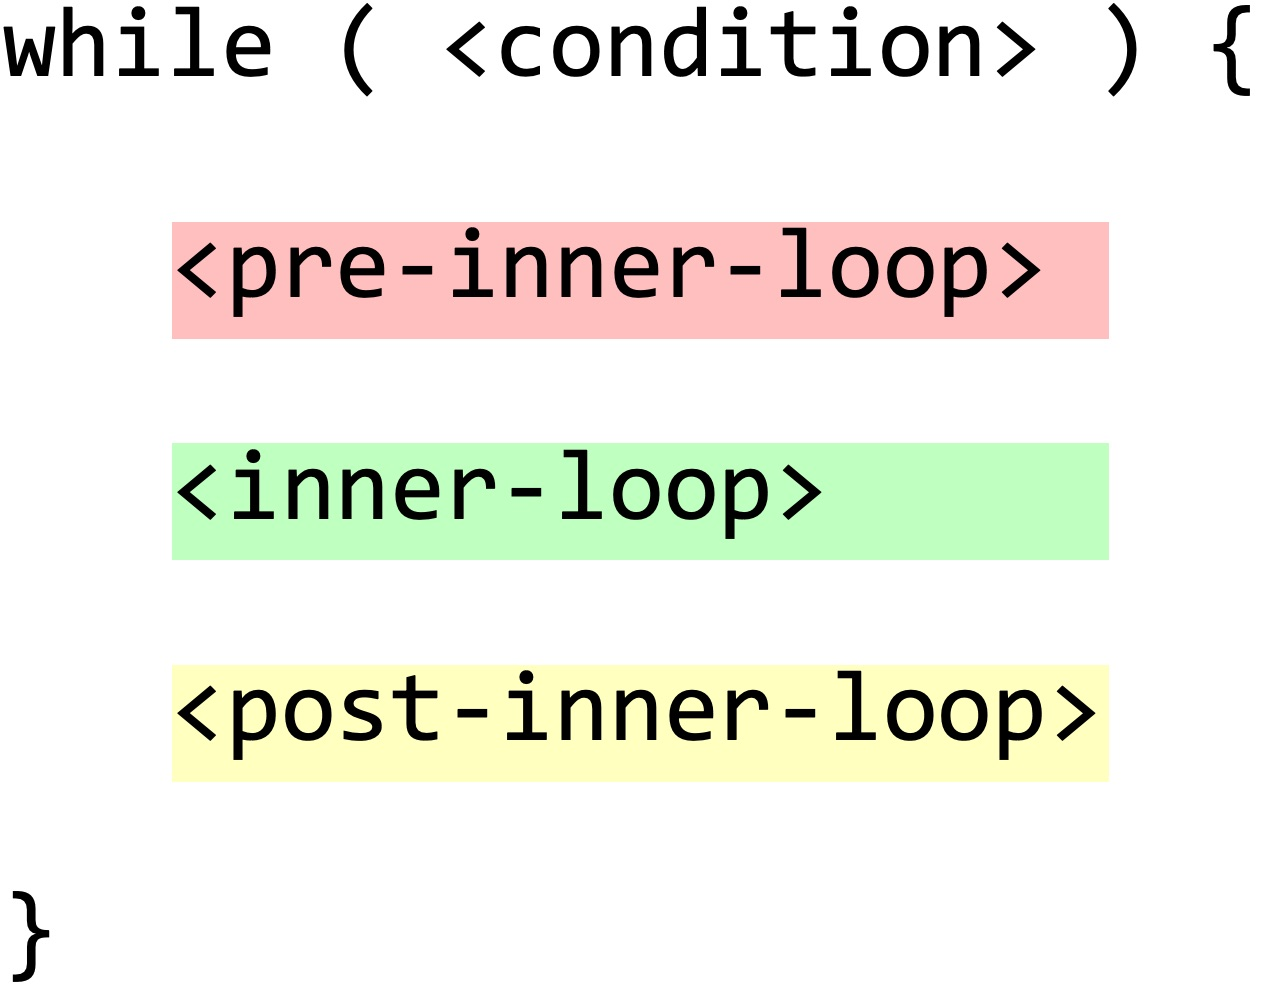
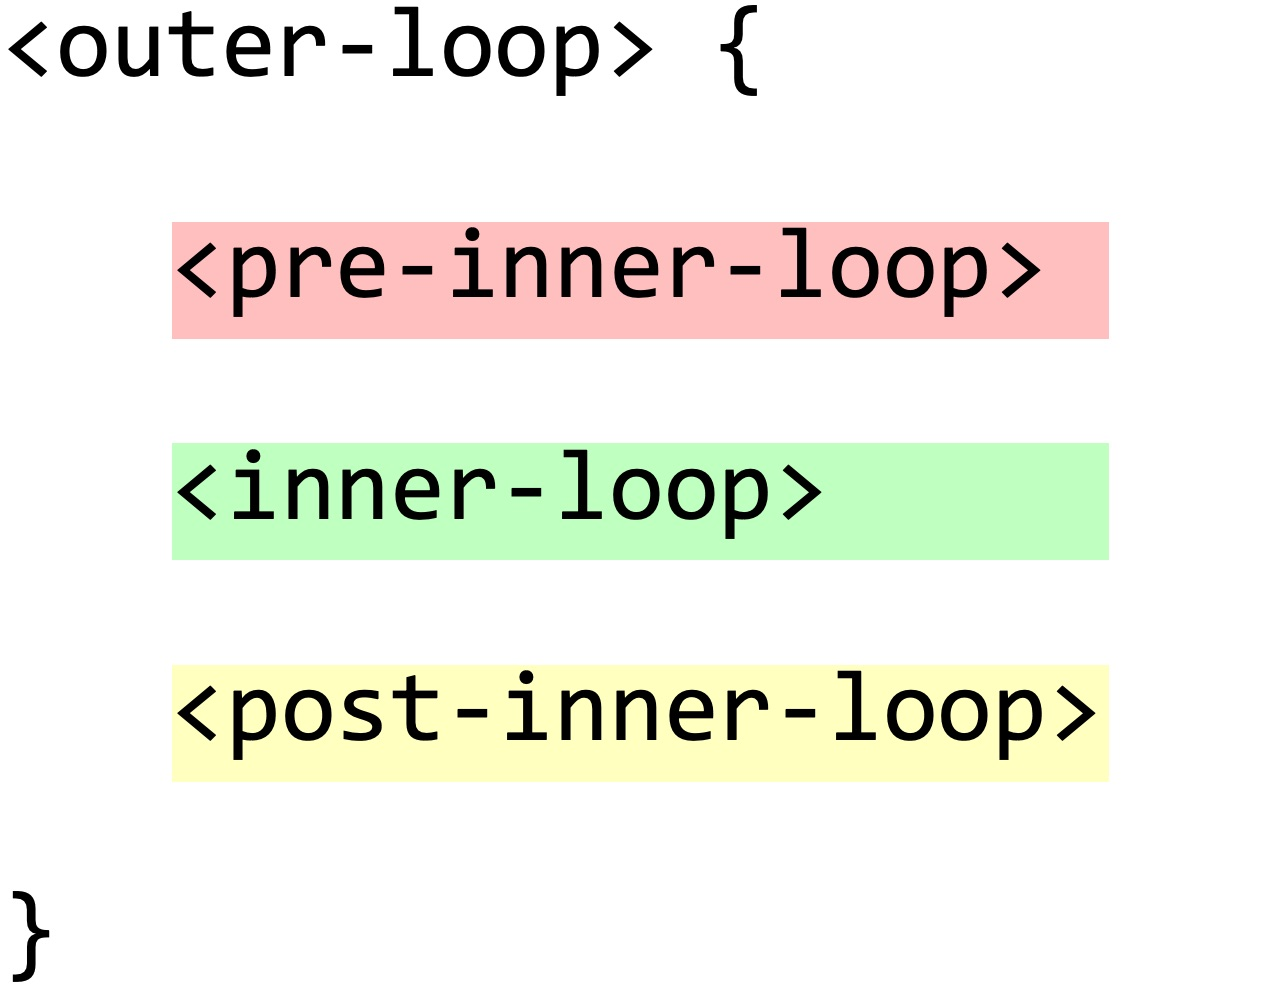
Partial proof reading of loop chapters

diff --git a/the-last-mile/loop/loop.tex b/the-last-mile/loop/loop.tex
@@ -3,40 +3,51 @@
 %% 7/14/18
 %%
 
-\chapter{Construct Lean Loops} \label{ch:loops}
+\chapter{Strive for Lean Loops} \label{ch:loops}
 
-Almost all major programming languages feature one or more loop constructs.
-As one of the most widely used programming constructs, loop is a productivity
-amplifier---with
-a static body and nominal overheads (\textit{e.g.},
+As one of the most widely used programming constructs, loop is productivity
+amplifier and is featured in almost all programming languages.
+With a static body and nominal overheads (\textit{e.g.},
 state-registering variables, \textit{etc.}), a loop can be executed as many times as desired.
-``What's the point to talk about loops as a type of control flow outside of
-the language context?'' you may be wondering.
 
 
-A key building block for programming as loop is, the best practices of it is worth
-developer's best effort.
-Unfortunately, however, production code, especially algorithmic implementation is filled with
-loops that barely meet the minimum quality-control to be counted as `working'.
-It is obvious that developers who produced the haphazardly `working' code were either oblivious
-with the programming guidelines for loop constructs or does not bother to take action to optimize
-their code for that cause.
+A key building block as loop is, it is worth every developer’s effort to master the best
+practices of it.
+On the opposite, it is not uncommon to spot in production code, especially algorithm-intensive code
+haphazardly constructed loops, often with duplicate code dangling around.
+Obviously developers who authored the haphazardly `working' code were either oblivious
+with good programming practices or does not bother to spend the time on better loop constructs.
 %Have you deliberately tried out a few loop constructs and chosen the best fit for a specific
 %application?
 %I wish your answer to these questions are both positive.
 %This is so not because these developers have no appetite for better code.
 
 
-For this reason I would like to devote this and next chapter to clarify the use of loops in program.
-A large part of this chapter is on the topic of to avoid duplicate code:
-``How to tighten up slack loops?''
-Another focus is on the limited scope of loop variables:
-``How to avoid inadvertent namespace contamination due to use of loop that have
-been the causes of many treacherous bugs?''
-A third one is on the quest of nested loop avoidance: ``How to reduce nested loops to a single
-loop?''
-Proper application of these programming skills will help solve a lot of
-problems plaguing our codebases.
+For this reason I would like to devote a substantial part of this book to clarify the best practices
+concerning the construction of loops.
+The major focus of this chapter is `How to avoid duplicate code?' and
+`How to fix up slack loops?'
+Slack loops refer to quick-n-dirty loops with duplicate code in and around it.
+We will elaborate on techniques that can help one construct `lean loops'.
+Once the habit of coding `lean' is formed, one will automatically, proactively seek to author high
+quality code.
+%``How to tighten up slack loops''.
+
+
+Another topic of this chapter is ``how to limit the scope of loop variables?''
+Have you experienced that a leaky and long living loop variable is the root cause of a malicious
+bug?
+I am positive you are not unfamiliar with this.
+Inadvertent namespace contamination often houses the most treacherous bugs.
+Loop variables at large is a common cause for namespace contamination.
+So when we program loops, we need to pay attention to running away loop variables.
+
+
+A related topic is on the use of nested loops.
+Nested loops are often a sign of suboptimal code in many circumstances.
+Therefore `how not to use nested loops' is critical to reduce clutters out of one's code.
+We dedicate ~\fulref{ch:embedded-loops} solely to this topic and presents techniques to help
+reduce nested loops to single loop.
 
 
 \section{Loop anatomy}\label{sec:loopAnatomy}
@@ -49,17 +60,25 @@ problems plaguing our codebases.
 %But most importantly, I intend this chapter can inspire enterprising
 %programmers to habitually reflect on their code and discover new ways to improve.
 
-
-With the mainstream programming languages in mind, let us start our discussion with an overview of
-loop constructs.
-First off, one should ensure that control have a way to escape a loop before entering, otherwise
-inadvertent infinite loop would result.
-So all loop constructs are equipped with a conditional expression, a termination test.
+Here we will give a brief account of the parts of a loop.
+We do so in a generic sense with several mainstream programming languages in mind.
+First off, entering a loop is like entering a building---before one proceeds, one needs to know
+where the exits are or infinite loop may result inadvertently.
+For this reason, all loop constructs come with a termination test.
 The location of termination test is a distinguishing feature for a loop.
 Based on its location, loop constructs can be classified as \emph{pre-test}, \emph{post-test},
 and somewhere in between, \emph{mid-test}.
 post-test loops attempt to execute the loop body at least once no matter what.
 Mid-test loops may execute part of the loop body.
+
+
+Secondly, most loops have initialization sections for preparatory work.
+%Initialization rightly takes some deliberation as it is coupled with the loop body.
+Thirdly, as a finite-state machine, a loop construct necessarily has state updating statements
+which push the loop toward its termination.
+Finally there is so-called `post-loop processing', one-off processing immediately after a loop
+terminates.
+%under certain circumstances, may be assimilated into the loop.
 
 
 \begin{table}[htb]
@@ -99,13 +118,6 @@ Mid-test loops may execute part of the loop body.
 \end{table}
 
 
-Many programming languages conveniently support more than one types of loop constructs.
-\code{for}-loop and \code{while}-loop are examples of pre-test loop constructs that
-almost all languages support.
-\code{do-while}-loop is a post-test loop construct supported by \java, \cpp, C, and many
-others (excluding \python).
-
-
 ~\autoref{tbl:loop-construct} summarizes the common parts in loop constructs of most high-level
 programming languages.
 On top of the standard loop constructs, possible customizations may be made with \code{break},
@@ -114,6 +126,14 @@ These statements blend into the loop body and fine tune the execution paths of o
 loops.
 
 
+Many programming languages conveniently support more than one types of loop constructs.
+\code{for}-loop and \code{while}-loop are examples of pre-test loop constructs that
+almost all languages support.
+\code{do-while}-loop is a post-test loop construct supported by \java, \cpp, C, and many
+others (excluding \python).
+
+
+Why do we need these many varieties of parts and loop constructs?
 Let us illustrate the abstract concepts with concrete examples.
 Say, in a cooking contest, each chef is to cook 3 dishes in a course---appetizer, main,
 and desert.
@@ -169,8 +189,8 @@ neither is `$15$';
 but `$25$' is.
 
 How would one solve the problem?
-Without using `\code{continue}', I see two choices---either use composite tests such as
-`\code{n \% 5 and not n \% 2 and not n \% 3}; or use nested conditionals somewhere.
+Without `\code{continue}', there are two obvious choices---either use composite tests such as
+`\code{n \% 5 and not n \% 2 and not n \% 3}; or use nested conditionals.
 Interested readers may try this on their own.
 For the first choice, it involves redundant tests.
 Suppose an additional rule regarding `$7$' is added, then the places to change would be doubled.
@@ -224,41 +244,16 @@ Similar situations may exist for the use of \code{break}, \code{return}, \textit
 redundant code.
 
 
-\section{Refactoring loops}\label{sec:refactoringLoops}
-
-Many loops, embedded in a long functions, are there to search for a match and should be
-refactored into a function of its own.
-Doing so not only simplifies the original function, making the main logic stand out more, but
-also the factored out function is compact, single-purposed, and readily reusable.
-
-Another reason is the elimination of many intermediate, local variables.
-Intermediate variables in a long function often share the same scope as the function
-and thus contaminate the namespace for the rest of the code block.
-Eliminating them will prevent many mysterious bugs and spare developers from such concerns.
-
-The following example illustrates this.
-In the first version, the code in the main function \code{execute} was
-misappropriated---a large part of it was usurped for the search of a needle in a haystack in a loop.
-\lstinputlisting[lastline=12]{loop/refactor_conditional_in_loop.java}
-After refactoring related code the loop into a separate function, we greatly reduced the bulge.
-Most importantly, \code{target} and other intermediate variables, if any, may be eliminated and
-will never pollute the namespace in the remaining part of the function.
-\lstinputlisting[firstline=14]{loop/refactor_conditional_in_loop.java}
-
-
 \section{C-style For-loop}\label{sec:for-loop}
 
-Beside the universal \code{while}-loop, another pre-test loop is the conventional
-C-like \code{for}-loop
-\footnote{This is not to be confused with the iterator-based foreach-loop such as
-\lstinputlisting[basicstyle=\footnotesize]{loop/foreach-loop.java}
-whose functionalities has been partly replaced by stream API as in \java.}
-which looks like
+Beside the universal \code{while}-loop, is the conventional C-like \code{for}-loop
+\footnote{This is not to be confused with the iterator-based \code{foreach},
+whose functionalities has largely been replaced by streaming such as in JDK 8+.},
+another commonly used pre-test loop whose layout looks like looks like
 \lstinputlisting{loop/for_loop.java}
 The distinguishing parts of a \code{for}-loop are its header statements---the
-initialization statement \code{<init>}, the loop continuation test
-\code{<test>}, and the afterthought statement \code{<aftrth}.
-Below is an explanation of each part:
+initialization \code{<init>}, the loop test \code{<test>}, and the afterthought \code{<aftrth>}.
+Below is an explanation of these header statements:
 \begin{enumerate}
     \item The \code{<init>} is a statement to be executed only once as control is transferred to
     the loop.
@@ -274,34 +269,25 @@ Below is an explanation of each part:
 \end{enumerate}
 
 
-Design considerations for a \code{for}-loop are summarized below.
-\begin{itemize}
-    \item
-    What is the correct and minimal initialization?
-    For example, should we initialize \code{int i = -1} or \code{int i = 0}?
-    \item
-    Where to update loop state?
-    For example, where should \code{i++} or \code{j--} be placed?
-    in the afterthought of the \code{for} header statement or somewhere in the loop body?
-    \item
-    What's the termination condition(s) how to arrange terminating statements if there are more
-    than one of them?
-\end{itemize}
+Design considerations for a \code{for}-loop are generally related to the header statements.
+Where to update loop state?
+For example, where should \code{i++} or \code{j--} be placed?
+In the afterthought header or somewhere in the loop body?
+How to arrange terminating statements?
+Should the loop test header statement be used or use an `\code{break}' statement in the body?
 
-The answers to these questions are interrelated and
-shall be adjusted as a whole throughout the design and implementation of loops.
+
+All these considerations are tightly coupled and changing one will likely result in changing all.
 For example it is more flexible (sometimes necessary when certain condition
 has to be met to increment/decrement)
-to increment/decrement state variables in loop body but it is seldom the more concise form.
+to increment/decrement state variables in loop body but it may not be the most concise form.
 In a more concise loop, state updates are often done in the afterthought header statement.
 For another, infinite loop is often the result of a reasoning loophole,
 which causes incorrect termination condition.
 
 
-The single biggest reason for me to use a \code{for}-loop is its limited scope of
-loop variables.
-Scope of loop variables declared in the \code{<init>} part of header statements are contained
-within the loop.
+To me personally, the single biggest reason to use a \code{for}-loop is its limited scope of
+loop variables declared in the \code{<init>} header statements---they are invisible beyond the loop.
 For example the following code wouldn't compile
 \begin{lstlisting}
     for (int i = 0; i < 10; ++i) {}
@@ -309,15 +295,42 @@ For example the following code wouldn't compile
 \end{lstlisting}
 In contrast, loop variables used by the \code{while}-loop condition have to be declared
 before the loop.
-Therefore their scope last beyond the loop and this often cause problems for the subsequent
-program for the aforementioned reasons.
+Therefore they leak beyond the loop.
 
 
-Occasionally limited scope of \code{for}-loop may be a hinder for post-loop processing.
-If that is the case, one may resort to
-`one-more-cycle' technique (see ~\autoref{sec:one-more-cycle} for more details) to solve the
-problem.
-Also for \python users, \code{for-else} or \code{while-else} is designed just for post-processing.
+%Occasionally limited scope of \code{for}-loop may be a hinder for post-loop processing.
+%If that is the case, one may resort to
+%`one-more-cycle' technique (see ~\autoref{sec:one-more-cycle} for more details) to solve the
+%problem.
+%Also for \python users, \code{for-else} or \code{while-else} is designed just for post-processing.
+
+
+\section{Refactoring loops}\label{sec:refactoringLoops}
+
+Many loops, especially those embedded in a crammed function, should be
+refactored into a function just containing the loop and minimal post-loop processing logic.
+Doing so not only makes the logic stand out in the original function,
+but also the factored out function is compact, single-purposed, and reusable.
+
+To eliminate of intermediate, local variables is another reason for refactoring loops into a
+dedicated function.
+Intermediate variables in a long function often share the same scope as the function
+and thus contaminate the namespace in the latter part of the function.
+Please by all means do yourself a favor and eliminate long-standing intermediate variables.
+This simple thumb rule will help prevent mysterious bugs and spare you from ghost-chasing.
+
+
+The following example illustrates this.
+In the first version, the code in the main function \code{execute} was
+misappropriated---a large part of it was usurped by the loop whose sole purpose
+is to search for `a needle in the haystack'.
+\lstinputlisting[lastline=12]{loop/refactor_conditional_in_loop.java}
+In the following listing, we refactored the loop into a separate function.
+Not only did we greatly reduced the bulging function, but most importantly
+\code{target} and other intermediate variables are eliminated and
+their scope are caged in the new function.
+The threat of polluting the namespace in the remaining code is completely removed.
+\lstinputlisting[firstline=14]{loop/refactor_conditional_in_loop.java}
 
 
 \section{The `\textit{loop-and-a-half}' problem}\label{sec:loop-and-a-half-Problem}
@@ -332,11 +345,12 @@ To answer this question, let's dig into history a bit.
 In 1966, Corrado B\"{o}hm and Giuseppe Jacopini proved that \code{goto} statements are
 unnecessary and programs containing them can be transformed to use only conditional statements
 and loops\cite{Bohm:1966}.
-Along that line of thought, more researchers, who might have gone too far, attempted to remove
+Along that line of thinking, more researchers, who might have gone too far, attempted to remove
 other `nuisance' in computer programming such as \code{break} and \code{return} in the middle of a
 loop to reduce control flow complexity and promote code composability.
-But the benefit cannot pay for the price.
-For example, one result of doing so is that more local variables are needed.
+But the benefit for doing so does not pay for itself---one ends up with having to create more
+intermediate variables.
+one result of doing so is that more local variables are needed.
 Even worse, it exacerbates problems with duplicate code in and around a loop.
 This is the origin of the so-called ``Loop and a half problem''\cite{Louden-Lambert-2011}.
 Today, ``\textit{loop-and-a-half} problem'' is still a pestering problem for suboptimal loop
@@ -346,14 +360,15 @@ design and implementation.
 At the language level, a number of loop constructs have been introduced to
 minimize the symptoms of the ``\textit{loop-and-a-half} problem''.
 But that's not enough.
-The burden remains on developers to choose the most suitable loop constructs.
+The burden remains with developers to choose the most suitable loop constructs.
 Further, code fine-tuning is beyond simple choices of loop constructs
 and must be hand-crafted at implementation time.
 In the section to follow, we will introduce `loop rotation', a technique for loop
 optimization that helps alleviate `loop-and-a-half' symptoms.
 
 
-Unexpectedly, sentinels can also be used to cure `loop-and-a-half' problem.
+It may be unexpected to many.
+But sentinels can also be used to cure `loop-and-a-half' problem.
 We will study a few cases for this in ~\fullref{ch:sentinels} and in
 ~\fullref{ch:json-prettifier}.
 
@@ -370,12 +385,14 @@ We will study a few cases for this in ~\fullref{ch:sentinels} and in
 
 When implementing loops in programs, an important goal is to reduce duplicate code in and around
 loop---be it pre-loop initialization or post-loop processing.
-And one of the important techniques for that is `loop rotation'.
+And one of the important techniques for it is `loop rotation'.
 
 
 It is beneficial to visualize a loop construct as a Ferris wheel, a carousel, or a spool.
-Mathematically speaking, a property is shared by all four---they are circular sequences, that is,
+Mathematically speaking, a property is shared by all four---they all represent circular sequences, that is,
 a sequence with rotational symmetry with respect to circular shifts.
+
+
 If pictured as a Ferris wheel, distributed around the wheel are the conditional test,
 initialization, state update statements and other statements in the loop body.
 (see ~\autoref{fig:loop-rotation}).
@@ -399,16 +416,18 @@ initialization, state update statements and other statements in the loop body.
 \end{figure}
 
 
+Circular sequence may be cut open and mapped to a linear sequence, \textit{e.g.}, starting with
+the lowest node going counterclockwise.
 As if a ring may be cut open, the nodes in a circular sequence may be ordered as a linear sequence
 if counting counterclockwise starting with the lowest node.
-In doing so, every statement may be the `first' (or `last') depending on which
-node is positioned lowest.
-One thus may take advantage of this rotational degrees of freedom to
-fine tune loop implementation by `rotating' the loop to match up and coalesce duplicate code in the
-affinity of the loop.
-This process is referred to as `Loop rotation'.
+One thus may take advantage of this rotational degrees of freedom as a measure of loop fine
+tuning---by `rotating' the loop to match up and coalesce duplicate code in the affinity of the loop.
+We will refer to this process as `loop rotation'.
 
 
+As another helpful analogy, loops to a program are like spools to yarn.
+Spools are used to organize yarns whereas loops are used as a program construct.
+%TODO
 Another helpful picture is to think of loops as spools and programs as threads with loops
 introduced to help organize threads.
 Redundant code outside of the loop may coalesce into the loop body during a `loop rotation'
@@ -423,7 +442,7 @@ Once a working solution has been found, one often has gotten a good grasp of the
 implementation.
 %to to try to spool up slack threads as much as possible by `rotating the loop' to match and
 %eliminate duplicate code.
-Then one can start `rotating the loop'---rotating the statements in the loop body, match up and
+Then one can start `rotating the loop'---rotating the statements in the loop body, align and
 eliminate `unwound', duplicate code before or after the loop.
 In the end, one can try different loop constructs, move and fit state-updating statements,
 combine or annihilate \code{continue} and \code{break} statements, \textit{etc.}
@@ -471,6 +490,10 @@ The single most important requirement for loop initialization is
 %Let each maintain its focus---a minimal, light-weight initialization focus on the preparatory work
 Loop body, on the other hand, does all the heavy lifting---it progressively mutate the loop state
 to the desired final result.
+
+
+What is the correct and minimal initialization?
+For example, should we initialize \code{int i = -1} or \code{int i = 0}?
 
 
 That's all the requirement for loop initialization.

diff --git a/the-last-mile/embedded-loops/loop-push-up.tex b/the-last-mile/embedded-loops/loop-push-up.tex
@@ -3,7 +3,7 @@
 %% 7/14/18
 %%
 
-\chapter{Nested Loop Compression} \label{ch:loop-thinning}
+\chapter{Avoid Nested Loops} \label{ch:loop-thinning}
 
 We have laid the foundation about loop programming in ~\autoref{ch:loops}.
 In this chapter, we are going to address another common misbelief about nested loops.
